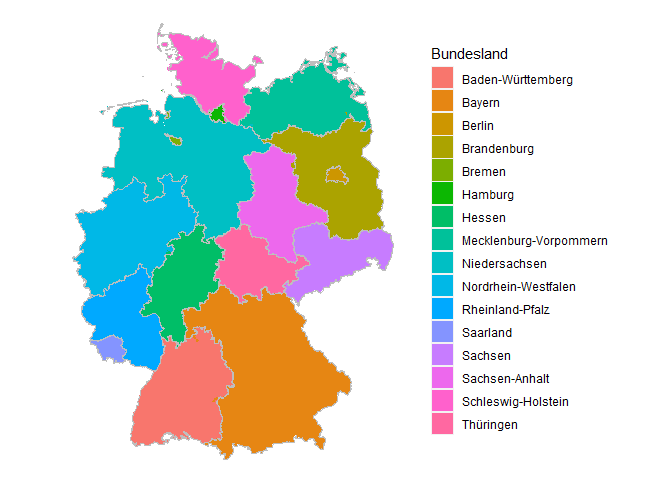
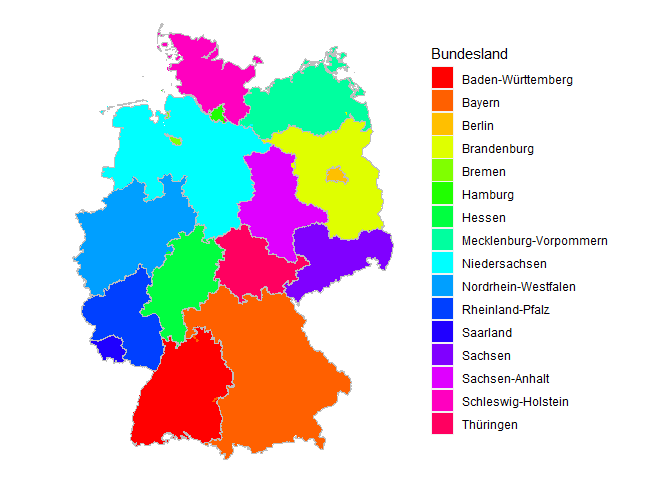
More documentation

Changed region(s): [[0.0938, 0.0625, 0.5938, 0.9688], [0.625, 0.125, 0.6875, 0.9062]]

diff --git a/README.md b/README.md
@@ -8,16 +8,16 @@
 
 <img src="man/figures/dePlzMap.png" width="270px" align="right" /> The
 `dePlzMap` R package is a tool for visualizing data on a map of Germany,
-using postal code (PLZ) boundaries as geographic units. It provides a
-simple and flexible interface for creating [choropleth
+using postal code (PLZ) boundaries as geographic units. The package
+defines the function `dePlzMap`, which provides a simple and flexible
+interface for creating [choropleth
 maps](https://en.wikipedia.org/wiki/Choropleth_map) of PLZ regions in
 Germany with continuous color scales, allowing users to explore spatial
-patterns and relationships in data. The package includes the possibility
-to normalize the input values by population per PLZ region to show
-population-relative values. The package leverages the `ggplot2` and
-`ggmap` libraries for generating the plots. The plots can be created via
-the function `dePlzMap` which users can quickly generate informative
-maps that highlight patterns in via R.
+patterns and relationships in data. It is also possible to normalize the
+input values by population per PLZ region to show population-relative
+values. The package leverages the `ggplot2` and `ggmap` libraries for
+generating the plots. The necessary geographical data and data about the
+regions and the population is integrated in the package.
 
 ## Data
 
@@ -87,7 +87,8 @@ head(populationData)
 ```
 
 This data can now be used to display the population per PLZ region in
-Germany:
+Germany. For this purpose, only the columns `plz` and `Population` of
+the `populationData` data frame are needed:
 
 ``` r
 dePlzMap(data = populationData[, c("plz", "Population")],
@@ -95,9 +96,6 @@ dePlzMap(data = populationData[, c("plz", "Population")],
 ```
 
 <img src="man/figures/README-PopulationDE-1.png" width="600px" />
-
-For this purpose, only two columns of the `populationData` data frame
-were used.
 
 If only a single state or a specific set of states should be shown, the
 argument `bundesland` can be specified:
@@ -117,12 +115,14 @@ here that there are a few PLZ regions that go across federal state
 boundaries, e.g., in Hamburg or Brandenburg.
 
 ``` r
-dePlzMap(data = populationData[, c("plz", "Bundesland")])
+dePlzMap(data = populationData[, c("plz", "Bundesland")]) + 
+  ggplot2::scale_fill_manual(values = rainbow(16))
 ```
 
 <img src="man/figures/README-BundeslaenderPlot-1.png" width="600px" />
 
 As the resulting object is a `gpplot` object, the appearance can be
-manipulated further via the `+` operation. There are also several
-options for further customizing the plot via arguments of the `dePlzMap`
-function.
+manipulated further via the `+` operation, e.g. by changing the color
+palette for the discrete values like demonstrated above. There are also
+several options for further customizing the plot via arguments of the
+`dePlzMap` function.
